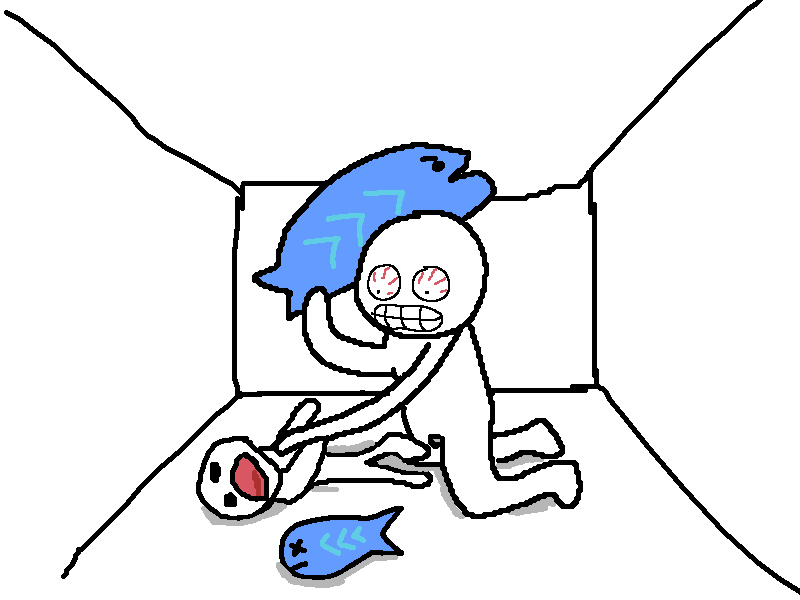
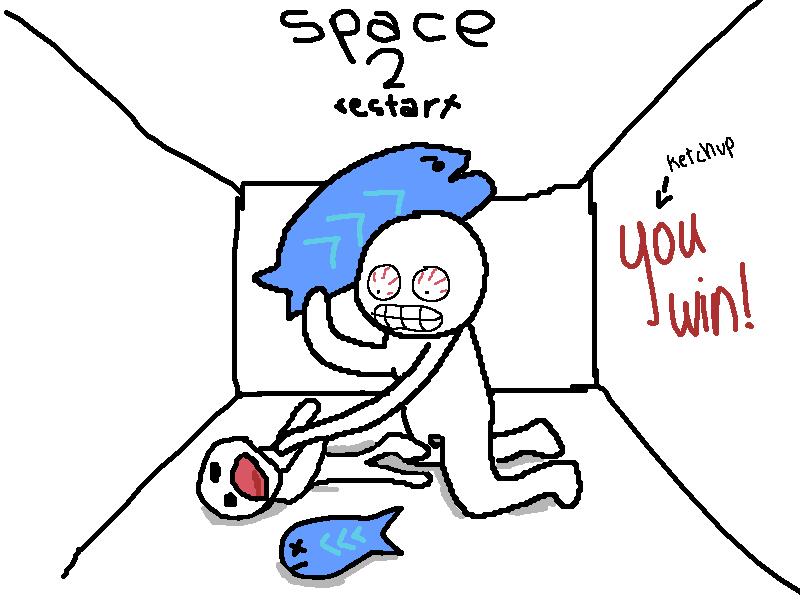
day4
scenes, more player input, visual indicators for turns

diff --git a/devlog.md b/devlog.md
@@ -39,5 +39,8 @@ allowed me to goof off with the process of development for a bit.
 I also uploaded the project to my GitHub today!
 ---------
 
-Day 4 (05-11-23)
-...
+DAY 4 (05-11-23)
+---------
+added escape and space function, added visuals for what directions player and opponent previously went,
+created & added lose scene, added strokes to indicate who's turn it is, added instructions in win/scene
+---------
